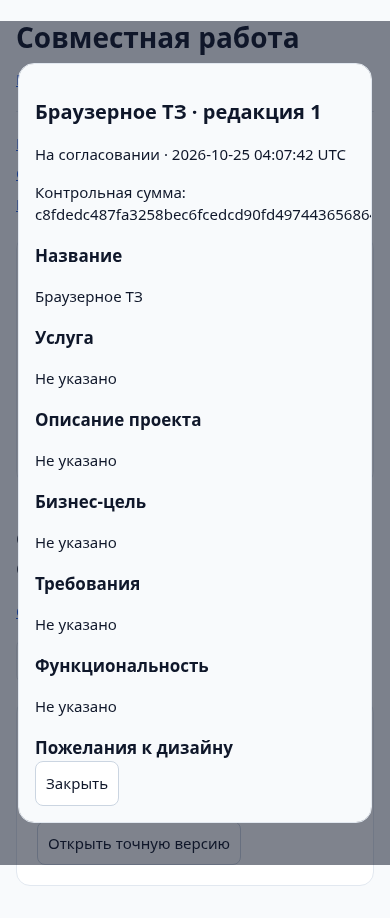
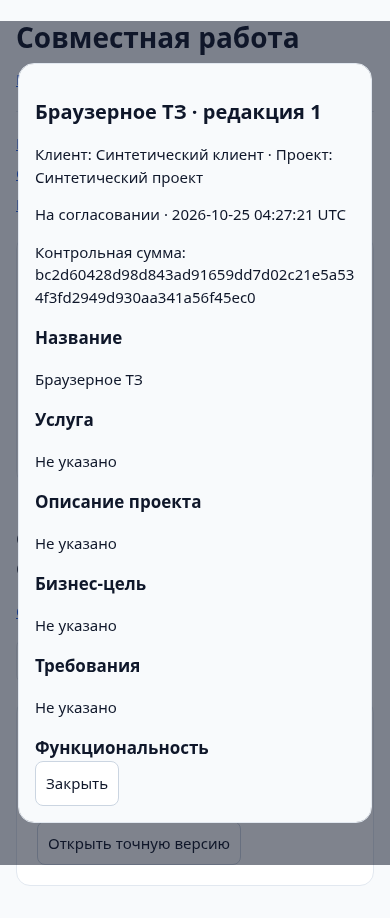
Freeze customer and project labels inside immutable document revision snapshots

diff --git a/public/collaboration.js b/public/collaboration.js
@@ -34,7 +34,7 @@
   form.onsubmit=async e=>{e.preventDefault();if(inFlight)return;inFlight=true;save.disabled=true;select.disabled=true;stage.disabled=true;const payload=draft(),snapshot=JSON.stringify(payload);try{const result=await request(revision?'revisions/'+revision.id+'/save':'projects/'+project+'/documents','POST',{...payload,...(revision?{version:Number(revision.version)}:{kind:select.value,title:payload.fields.title||'Документ',stage_id:stage.value?Number(stage.value):null}),request_key:requestKey});if(!result.revision||!Number.isInteger(result.id))throw new Error('Сохранение черновика не подтверждено.');revision=result.revision;requestKey=key();saved=true;initial=snapshot;if(JSON.stringify(draft())===snapshot){modal.close();await render();}else note.textContent='Отправленный снимок сохранён. Новые правки остались в форме; сохраните их отдельно.';}catch(e){note.textContent=e.message;}finally{inFlight=false;save.disabled=false;select.disabled=!!revision;stage.disabled=!!revision;}};
   revisionDraft={isDirty:()=>inFlight||JSON.stringify(draft())!==initial};root.append(form);if(!modal.open)modal.showModal();
  }
- async function showRevision(id){revisionDraft=null;const data=await request('revisions/'+id),r=data.revision;if(!r||!r.fields)throw new Error('Версия не подтверждена сервером.');const root=$('#cc-modal-body');root.replaceChildren();$('#cc-modal-title').textContent=(r.fields.title||r.document.title)+' · редакция '+r.revision_number;root.append(el('p',statuses[r.status]+(r.archived_at?' · Архивная редакция':'')+' · '+r.created_at+' UTC'),el('p','Контрольная сумма: '+r.checksum));for(const [f,label]of Object.entries(fieldLabels)){root.append(el('h3',label),el('p',r.fields[f]||'Не указано','document-body'));}for(const f of r.files)root.append(download(f));if(r.decision)root.append(el('h3','Решение клиента'),el('p',statuses[r.decision.decision]+' · '+r.decision.created_at),el('p',r.decision.feedback,'feedback'));
+ async function showRevision(id){revisionDraft=null;const data=await request('revisions/'+id),r=data.revision;if(!r||!r.fields)throw new Error('Версия не подтверждена сервером.');const root=$('#cc-modal-body');root.replaceChildren();$('#cc-modal-title').textContent=(r.fields.title||r.document.title)+' · редакция '+r.revision_number;root.append(el('p','Клиент: '+(r.fields.customer_name||'Имя не зафиксировано в редакции')+' · Проект: '+(r.fields.project_title||'Название не зафиксировано в редакции')));root.append(el('p',statuses[r.status]+(r.archived_at?' · Архивная редакция':'')+' · '+r.created_at+' UTC'),el('p','Контрольная сумма: '+r.checksum));for(const [f,label]of Object.entries(fieldLabels)){root.append(el('h3',label),el('p',r.fields[f]||'Не указано','document-body'));}for(const f of r.files)root.append(download(f));if(r.decision)root.append(el('h3','Решение клиента'),el('p',statuses[r.decision.decision]+' · '+r.decision.created_at),el('p',r.decision.feedback,'feedback'));
   const print=el('a',r.status==='finalized'?'Печать завершённого документа':'Печатный просмотр');print.href='/collab-print.php?mode='+(owner?'owner':'customer')+'&id='+r.id;print.target='_blank';print.rel='noopener';root.append(print);
   if(owner){if(Number(r.revision_number)<Number(r.document.head_revision)&&!r.archived_at)root.append(button('Архивировать прежнюю редакцию',async()=>{if(!confirm('Пометить старую редакцию архивной? Снимок и решения сохранятся.'))return;await request('revisions/'+r.id+'/archive','POST',{version:Number(r.version),request_key:key()});await showRevision(r.id);}));if(r.status==='draft')root.append(button('Редактировать черновик',()=>documentEditor(r)),button('Подготовить к отправке',async()=>{await request('revisions/'+r.id+'/ready','POST',{version:Number(r.version),request_key:key()});await showRevision(r.id);}));let reviewDue=null;if(r.status==='ready'){const label=el('label','Срок согласования (необязательно)');reviewDue=el('input');reviewDue.type='date';label.append(reviewDue);root.append(label);}if(r.status==='ready')root.append(button(r.document.kind==='deliverable'?'Отправить результат':'Отправить на согласование',async()=>{if(!confirm('Отправить клиенту именно редакцию '+r.revision_number+'? Содержимое станет неизменяемым.'))return;await request('revisions/'+r.id+'/submit','POST',{version:Number(r.version),confirm:true,due_on:reviewDue?.value||null,request_key:key()});await showRevision(r.id);}));if(r.status==='approved')root.append(button('Завершить документ',async()=>{await request('revisions/'+r.id+'/finalize','POST',{version:Number(r.version),request_key:key()});await showRevision(r.id);}));if(r.approval?.status==='pending')root.append(button('Отозвать запрос',async()=>{if(!confirm('Отозвать только этот ожидающий запрос? История сохранится.'))return;await request('approvals/'+r.approval.id+'/withdraw','POST',{version:Number(r.approval.version),request_key:key()});await showRevision(r.id);}));}
   else if(r.approval?.status==='pending'&&Number(r.revision_number)===Number(r.document.head_revision)){const label=el('label','Комментарий (обязателен при доработке)'),feedback=el('textarea');feedback.maxLength=5000;label.append(feedback);root.append(label);let decisionKey=key(),decisionPending=false;const decide=async decision=>{if(decisionPending)return;if(!confirm((decision==='approved'?'Согласовать':'Отправить на доработку')+' редакцию '+r.revision_number+'? Это не оплата и не электронная подпись.'))return;decisionPending=true;try{await request('approvals/'+r.approval.id+'/decide','POST',{version:Number(r.approval.version),checksum:r.checksum,decision,confirm:true,feedback:feedback.value,request_key:decisionKey});decisionKey=key();await showRevision(r.id);}finally{decisionPending=false;}};root.append(button(r.document.kind==='deliverable'?'Согласовать результат':'Согласовать',()=>decide('approved')),button('Отправить на доработку',()=>decide('changes_requested')));}

diff --git a/public/collaboration.css b/public/collaboration.css
@@ -1,3 +1,4 @@
 .collaboration-layout{display:grid;grid-template-columns:300px minmax(0,1fr);gap:22px}.threads{position:static;inset:auto;width:auto;background:white;color:#0f172a;border:1px solid #e2e8f0;border-radius:14px;padding:16px;max-height:75dvh;overflow:auto}.threads button.thread{display:block;width:100%;text-align:left;margin-top:8px}.thread[aria-current]{border-color:#2563eb;background:#eff6ff}.thread small{display:block}#cc-main{min-width:0}.conversation{display:flex;flex-direction:column;gap:12px;max-height:55dvh;overflow:auto;padding:12px 0}.message{background:#fff;border:1px solid #e2e8f0;border-radius:12px;padding:14px;white-space:pre-wrap;overflow-wrap:anywhere}.message.owner{border-left:4px solid #2563eb}.message small{display:block}.composer{display:grid;gap:10px}.composer textarea{width:100%;min-height:100px}.collab-form{display:grid;gap:12px}.collab-form label{min-width:0}.collab-form textarea{min-height:110px;width:100%}.collab-item{margin:16px 0}.document-body{white-space:pre-wrap;overflow-wrap:anywhere}progress{width:100%;height:20px}.file-controls{display:flex;gap:10px;flex-wrap:wrap}.cc-badge{background:#dbeafe;color:#1e40af;padding:4px 8px;border-radius:10px}.feedback{white-space:pre-wrap;border-left:3px solid #f59e0b;padding:12px}.collaboration-layout a{overflow-wrap:anywhere}#cc-nav a[aria-current]{font-weight:700}.cc-empty{color:#64748b;padding:16px}@media(max-width:800px){.collaboration-layout{grid-template-columns:1fr}.threads{display:block;max-height:250px}.conversation{max-height:50dvh}.portal{padding:16px}}
 @media print{body{background:white;color:black}main.portal{padding:0;max-width:none}button,nav,.threads{display:none!important}.print-document section{break-inside:avoid}.print-document h1{font-size:24px}.print-document p{overflow-wrap:anywhere}}
 #cc-close{position:sticky;bottom:0;background:#fff;margin-top:12px}.collab-form fieldset{min-inline-size:0}.collab-form fieldset label{overflow-wrap:anywhere}
+#cc-modal-body,.print-document{overflow-wrap:anywhere}

diff --git a/tests/test_collaboration.py b/tests/test_collaboration.py
@@ -121,7 +121,8 @@ class Collaboration(unittest.TestCase):
   self.assertEqual(self.f.sql('SELECT COUNT(*) n FROM nd_cc_decisions WHERE approval_id=?',params=[v2['approval']['id']])[0]['n'],1)
   current=self.get(self.owner,'revisions/'+str(v2['id'])).json()['revision'];r=self.post(self.owner,f'revisions/{v2["id"]}/finalize',version=int(current['version']));self.assertEqual(r.status_code,200,r.text)
   old=self.get(self.owner,'revisions/'+str(v1['id'])).json()['revision'];archived=self.post(self.owner,f'revisions/{v1["id"]}/archive',version=int(old['version']));self.assertEqual(archived.status_code,200,archived.text);self.assertIsNotNone(self.get(self.customer,'revisions/'+str(v1['id'])).json()['revision']['archived_at']);self.assertEqual(self.f.sql('SELECT body,checksum FROM nd_cc_revisions WHERE id=?',params=[v1['id']])[0],original)
-  url=self.base+'/collab-print.php?mode=customer&id='+str(v2['id']);page=self.customer.get(url);self.assertEqual(page.status_code,200,page.text);self.assertIn('text/html',page.headers['Content-Type']);self.assertIn(v2['checksum'],page.text);self.assertEqual(self.stranger.get(url).status_code,404)
+  self.f.sql("UPDATE nd_customers SET name='Имя после согласования' WHERE id=?",params=[self.customer_id]);self.f.sql("UPDATE nd_projects SET title='Название после согласования' WHERE id=?",params=[self.project_id])
+  url=self.base+'/collab-print.php?mode=customer&id='+str(v2['id']);page=self.customer.get(url);self.assertEqual(page.status_code,200,page.text);self.assertIn('text/html',page.headers['Content-Type']);self.assertIn(v2['checksum'],page.text);self.assertIn('Синтетический клиент',page.text);self.assertIn('Синтетический проект',page.text);self.assertNotIn('Имя после согласования',page.text);self.assertNotIn('Название после согласования',page.text);self.assertEqual(self.stranger.get(url).status_code,404)
   history=self.f.sql("SELECT actor_admin_id,actor_customer_account_id FROM nd_activity_history WHERE project_id=? AND action='cc_decision_recorded'",params=[self.project_id]);self.assertTrue(history);self.assertIsNone(history[0]['actor_admin_id']);self.assertIsNotNone(history[0]['actor_customer_account_id'])
  def test_06_outdated_pending_review_and_concurrency(self):
   rev=self.ready_submit(self.document());doc=rev['document']
@@ -176,7 +177,7 @@ class Collaboration(unittest.TestCase):
    pg.locator('#cc-nav a[href="#documents"]').click();pg.get_by_role('button',name='Создать документ',exact=True).click();pg.wait_for_selector('#cc-modal[open]');pg.locator('[name=title]').fill('Браузерное ТЗ');pg.locator('[name=acceptance]').fill('Проверить работоспособность всех согласованных разделов');pg.get_by_role('button',name='Сохранить черновик',exact=True).click();pg.wait_for_selector('#cc-modal[open]',state='hidden')
    pg.get_by_role('button',name='Открыть версию',exact=True).click();pg.get_by_role('button',name='Подготовить к отправке',exact=True).click();pg.get_by_role('button',name='Отправить на согласование',exact=True).click();pg.get_by_role('button',name='Отозвать запрос',exact=True).wait_for();pg.screenshot(path=str(shots/'owner-document.png'),full_page=True)
    customer_context=browser.new_context(viewport={'width':390,'height':844});customer_context.add_cookies([{'name':c.name,'value':c.value,'url':self.base} for c in self.customer.cookies]);client=customer_context.new_page();client.on('pageerror',lambda e:errors.append(str(e)));client.on('dialog',lambda d:d.accept())
-   client.goto(self.base+f'/collaboration.php?project={self.project_id}#approvals');client.get_by_role('button',name='Открыть точную версию',exact=True).click();client.get_by_role('button',name='Согласовать',exact=True).wait_for();client.screenshot(path=str(shots/'customer-review-mobile.png'),full_page=True);client.get_by_role('button',name='Согласовать',exact=True).click();client.get_by_text('Решение клиента',exact=True).wait_for();client.get_by_role('button',name='Закрыть',exact=True).click()
+   client.goto(self.base+f'/collaboration.php?project={self.project_id}#approvals');client.get_by_role('button',name='Открыть точную версию',exact=True).click();client.get_by_role('button',name='Согласовать',exact=True).wait_for();self.assertTrue(client.locator('#cc-modal').evaluate('e => e.scrollWidth<=e.clientWidth'));client.screenshot(path=str(shots/'customer-review-mobile.png'),full_page=True);client.get_by_role('button',name='Согласовать',exact=True).click();client.get_by_text('Решение клиента',exact=True).wait_for();client.get_by_role('button',name='Закрыть',exact=True).click()
    for section in ['overview','messages','files','documents','approvals','deliverables']:
     client.goto(self.base+f'/collaboration.php?project={self.project_id}#'+section);client.wait_for_function("() => document.querySelector('#cc-content').children.length>0");self.assertTrue(client.evaluate('document.documentElement.scrollWidth<=innerWidth'),section)
    client.screenshot(path=str(shots/'customer-dashboard-mobile.png'),full_page=True);self.assertEqual(errors,[]);browser.close()

diff --git a/public/collab-print.php b/public/collab-print.php
@@ -9,4 +9,4 @@ try{
  $states=['draft'=>'Черновик','ready'=>'Готов к отправке','sent'=>'На согласовании','approved'=>'Согласован','changes_requested'=>'Требуется доработка','finalized'=>'Завершён'];
  header('Content-Type: text/html; charset=utf-8');
 }catch(CrmFailure $ex){fail($ex->status,$ex->getMessage(),'collaboration_error');}catch(CustomerFailure $ex){fail($ex->status,$ex->getMessage(),$ex->errorCode);}catch(Throwable $ex){server_error($ex);}
-?><!doctype html><html lang="ru"><head><meta charset="utf-8"><meta name="viewport" content="width=device-width,initial-scale=1"><title><?= $e($r['fields']['title']) ?></title><link rel="stylesheet" href="operations.css"><link rel="stylesheet" href="collaboration.css"></head><body><main class="portal print-document"><h1>НейроДело — <?= $e($r['fields']['title']) ?></h1><p>Клиент: <?= $e($customer['name']) ?> · Проект: <?= $e($p['title']) ?></p><p>Редакция <?= $e($r['revision_number']) ?> · Создана <?= $e($r['created_at']) ?> UTC · <?= $e($states[$r['status']]) ?></p><p>SHA-256: <?= $e($r['checksum']) ?></p><?php foreach($r['fields'] as $k=>$v): ?><section><h2><?= $e($labels[$k]) ?></h2><div class="document-body"><?= $e($v) ?></div></section><?php endforeach; ?><?php if(isset($r['decision'])): ?><p>Решение клиента: <?= $e($states[$r['decision']['decision']]) ?> · <?= $e($r['decision']['created_at']) ?> UTC</p><p class="document-body"><?= $e($r['decision']['feedback']) ?></p><?php endif; ?><p>Согласование в кабинете не является оплатой или заявлением о юридически значимой электронной подписи.</p><button id="print-document">Печать</button></main><script src="collab-print.js"></script></body></html>
+?><!doctype html><html lang="ru"><head><meta charset="utf-8"><meta name="viewport" content="width=device-width,initial-scale=1"><title><?= $e($r['fields']['title']) ?></title><link rel="stylesheet" href="operations.css"><link rel="stylesheet" href="collaboration.css"></head><body><main class="portal print-document"><h1>НейроДело — <?= $e($r['fields']['title']) ?></h1><p>Клиент: <?= $e($r['fields']['customer_name']??'Имя клиента не зафиксировано в редакции') ?> · Проект: <?= $e($r['fields']['project_title']??'Название проекта не зафиксировано в редакции') ?></p><p>Редакция <?= $e($r['revision_number']) ?> · Создана <?= $e($r['created_at']) ?> UTC · <?= $e($states[$r['status']]) ?></p><p>SHA-256: <?= $e($r['checksum']) ?></p><?php foreach($r['fields'] as $k=>$v): if(!isset($labels[$k]))continue; ?><section><h2><?= $e($labels[$k]) ?></h2><div class="document-body"><?= $e($v) ?></div></section><?php endforeach; ?><?php if(isset($r['decision'])): ?><p>Решение клиента: <?= $e($states[$r['decision']['decision']]) ?> · <?= $e($r['decision']['created_at']) ?> UTC</p><p class="document-body"><?= $e($r['decision']['feedback']) ?></p><?php endif; ?><p>Согласование в кабинете не является оплатой или заявлением о юридически значимой электронной подписи.</p><button id="print-document">Печать</button></main><script src="collab-print.js"></script></body></html>

diff --git a/private/collab/documents.php b/private/collab/documents.php
@@ -22,7 +22,7 @@ function cc_snapshot_checksum(array $doc,array $fields,array $files):string{
  return hash('sha256',json_encode(['project_id'=>(int)$doc['project_id'],'kind'=>$doc['kind'],'stage_id'=>$doc['stage_id']===null?null:(int)$doc['stage_id'],'fields'=>$fields,'files'=>array_map(fn($f)=>['id'=>(int)$f['id'],'checksum'=>$f['checksum']],$files)],JSON_UNESCAPED_UNICODE|JSON_THROW_ON_ERROR));
 }
 function cc_save_revision(array $a,array $doc,array $d,?array $old=null):array{
- $fields=cc_fields($d);$ids=$d['file_ids']??[];if(!is_array($ids))crm_fail(422,'Проверьте вложения.');$files=cc_files_for($a,(int)$doc['project_id'],$ids);usort($files,fn($x,$y)=>$x['id']<=>$y['id']);
+ $fields=cc_fields($d);$project=cc_project($a,(int)$doc['project_id']);$fields['project_title']=$project['title'];$fields['customer_name']=crm_record('customers',(int)$project['customer_id'])['name'];$ids=$d['file_ids']??[];if(!is_array($ids))crm_fail(422,'Проверьте вложения.');$files=cc_files_for($a,(int)$doc['project_id'],$ids);usort($files,fn($x,$y)=>$x['id']<=>$y['id']);
  $hash=cc_snapshot_checksum($doc,$fields,$files);$body=json_encode($fields,JSON_UNESCAPED_UNICODE|JSON_THROW_ON_ERROR);
  if($old){if($old['status']!=='draft')crm_fail(409,'Отправленная версия неизменяема. Создайте новую редакцию.');crm_version($d,$old);crm_query('UPDATE nd_cc_revisions SET body=?,checksum=?,version=version+1 WHERE id=?',[$body,$hash,$old['id']]);$id=(int)$old['id'];crm_query('DELETE FROM nd_cc_revision_files WHERE revision_id=?',[$id]);}
  else{crm_query('INSERT INTO nd_cc_revisions(document_id,revision_number,body,checksum) VALUES (?,?,?,?)',[$doc['id'],$doc['head_revision'],$body,$hash]);$id=(int)db()->lastInsertId();}

diff --git a/docs/STAGE-6-ARCHITECTURE.md b/docs/STAGE-6-ARCHITECTURE.md
@@ -66,6 +66,8 @@ JSON success `ok:true`, mutation ID/record где применимо; errors —
 
 Draft → ready → sent → approved/changes_requested → finalized (только approved). Body/attachments можно менять исключительно у current draft; optimistic version проверяется под lock. После ready/content freeze для изменения нужна новая редакция. Родительский document row сериализует revision/submit/decision; после ожидания lock mutating code повторно читает актуальные revision/approval FOR UPDATE, не использует старый repeatable-read snapshot для сохранения.
 
+Readonly названия клиента и проекта сохраняются сервером внутри body каждой редакции; browser не может подменить эти поля. Preview/print используют этот снимок, а не текущие названия из CRM. Переименование CRM-записей не меняет согласованный документ. У legacy dev-редакции без таких полей отображается явное отсутствие зафиксированных названий, без выдумывания истории.
+
 Отправка фиксирует canonical SHA256 от project/kind/stage/ordered fields и id/checksum attachments. Проверяются физические файлы и явная customer visibility. New revision отзывает только pending запросы прежних версий. Старое принятое решение не стирается. Customer approve требует текущий head, pending request, exact checksum/version и confirm=true. Changes requested — содержательное feedback ≥5 символов. Unique decision/approval + actor-bound key защищают от повторов. Решение связано с exact revision/checksum/account/time.
 
 Milestone request требует существующий **completed** milestone того же проекта. Final request требует непустые полностью завершённые milestones. Target version проверяется повторно перед решением: изменившийся milestone/project требует новую редакцию. Текстовые критерии проверяет человек при явном подтверждении; приложение не заявляет автоматическую проверку произвольных бизнес-требований. Согласование само не меняет owner-only project/task states и не означает оплату, договор или юридически значимую электронную подпись.

diff --git a/docs/STAGE-6-REPORT.md b/docs/STAGE-6-REPORT.md
@@ -43,7 +43,7 @@ Activity/owner notifications используют существующие Stage
 - Visibility change → permitted exact byte download; чужие/hidden/unknown file IDs имеют одинаковый 404 body. Missing bytes/invalid storage key дают safe 503 без path.
 - Interrupted multipart HTTP body не создаёт metadata. Quota concurrent requests дают один persisted upload и 507 для превышения. Synthetic DB trigger failure не оставляет dangling row/blob. Low physical free-space branch проверена synthetic capacity values, реальный диск не заполнялся.
 - Readonly orphan inventory сохраняет unreferenced fixture и не выводит filenames/paths/keys.
-- ТЗ v1 → changes requested → v2 → approval → finalize/print; sent/approved body update rejected, old bytes/body/checksum сохранены; outdated first decision rejected, same idempotent decision ровно одна запись.
+- ТЗ v1 → changes requested → v2 → approval → finalize/print; sent/approved body update rejected, old bytes/body/checksum сохранены; header names в print остаются прежними после переименования клиента/проекта в CRM; outdated first decision rejected, same idempotent decision ровно одна запись.
 - Deliverable v1/files → feedback → v2/files → approval; cross-customer messages/files/documents/reviews/print isolation; customer не создаёт owner documents; disabled account и separate feature gate закрывают доступ.
 - Required milestone/final state и stale target version; old customer/admin/lead/auth/CRM regression suite.
 - Migration up/up/down/up preserves old rows; nonempty rollback, checksum mismatch, unmanaged collision, older-stage rollback refusal и partial journal empty recovery.
